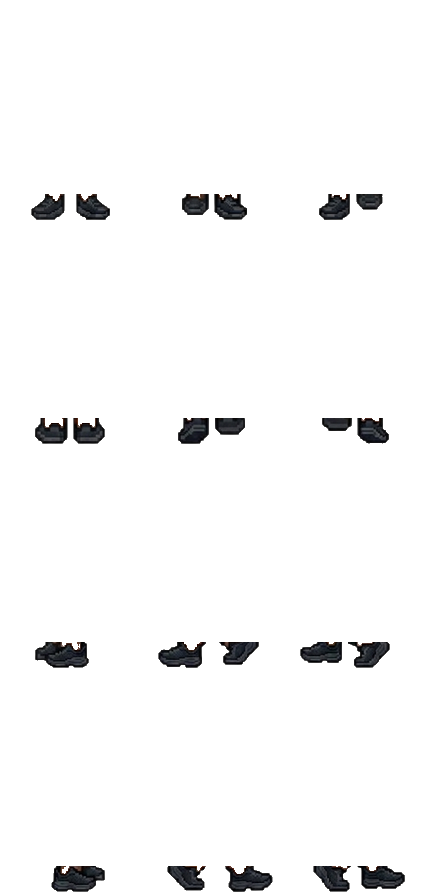
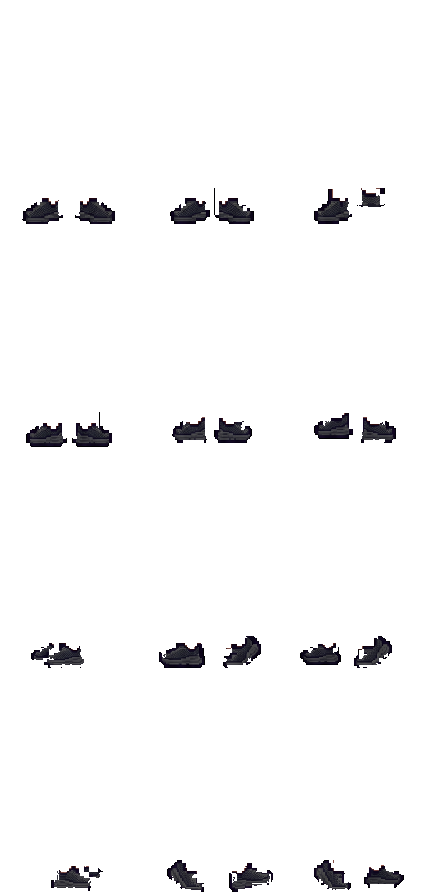
fix(murpyworld): 검정 러닝화 v2 시트로 재추출 — 옛 파이프라인 자산 교체
마지막 남은 옛 자산이었다. 새 시트는 body_bald 를 img2img 베이스로 뽑아
비율이 정확히 맞는다 — 머리 최상단 base 22 = worn 22, 다리 폭도 y400 까지 106px 동일.
(LA캡은 이걸 안 해서 머리를 작게 그렸고, 그래서 마스크로 못 고쳤다.)

기존: 반투명 4,115px  →  재추출: 반투명 0, halo 0, ✦ 없음
소스: 검정색러닝화시트_clean-Photoroom.png

_ITEM_V 48→49, sw v111→v112.

diff --git a/sw.js b/sw.js
@@ -1,7 +1,7 @@
 // 배포마다 이 버전을 올려야 자동 새버전 적용(새로고침)이 동작함
-const CACHE_NAME = 'murpy-v111';
-const STATIC_CACHE = 'murpy-static-v111';
-const CDN_CACHE = 'murpy-cdn-v111';
+const CACHE_NAME = 'murpy-v112';
+const STATIC_CACHE = 'murpy-static-v112';
+const CDN_CACHE = 'murpy-cdn-v112';
 // 이미지 캐시는 버전 안 붙임 → 코드/HTML 배포해도 유지(URL이 곧 버전)
 const IMG_CACHE = 'murpy-img';
 

diff --git a/index.html b/index.html
@@ -1623,7 +1623,7 @@ window.CHAR_ITEMS = [
   { id: 'shoes_black', slot: 'shoes', name: '검정 러닝화', price: 0, sheet: 'char/items/shoes_black.png', thumb: 'char/items/shoes_black_thumb.png' }
 ];
 // 아이템 이미지 캐시버전 — 아이템 시트/썸네일 바꿀 때마다 올리면 SW 캐시 무시하고 새로 받음
-window._ITEM_V = 48;
+window._ITEM_V = 49;
 window._iv = function (u) { return u ? (u + (u.indexOf('?') < 0 ? '?v=' : '&v=') + (window._ITEM_V || 1)) : u; };
 window.CHAR_FREE = ['hair_short', 'top_tee', 'mask_simple'];
 window.CHAR_SHAPES = {